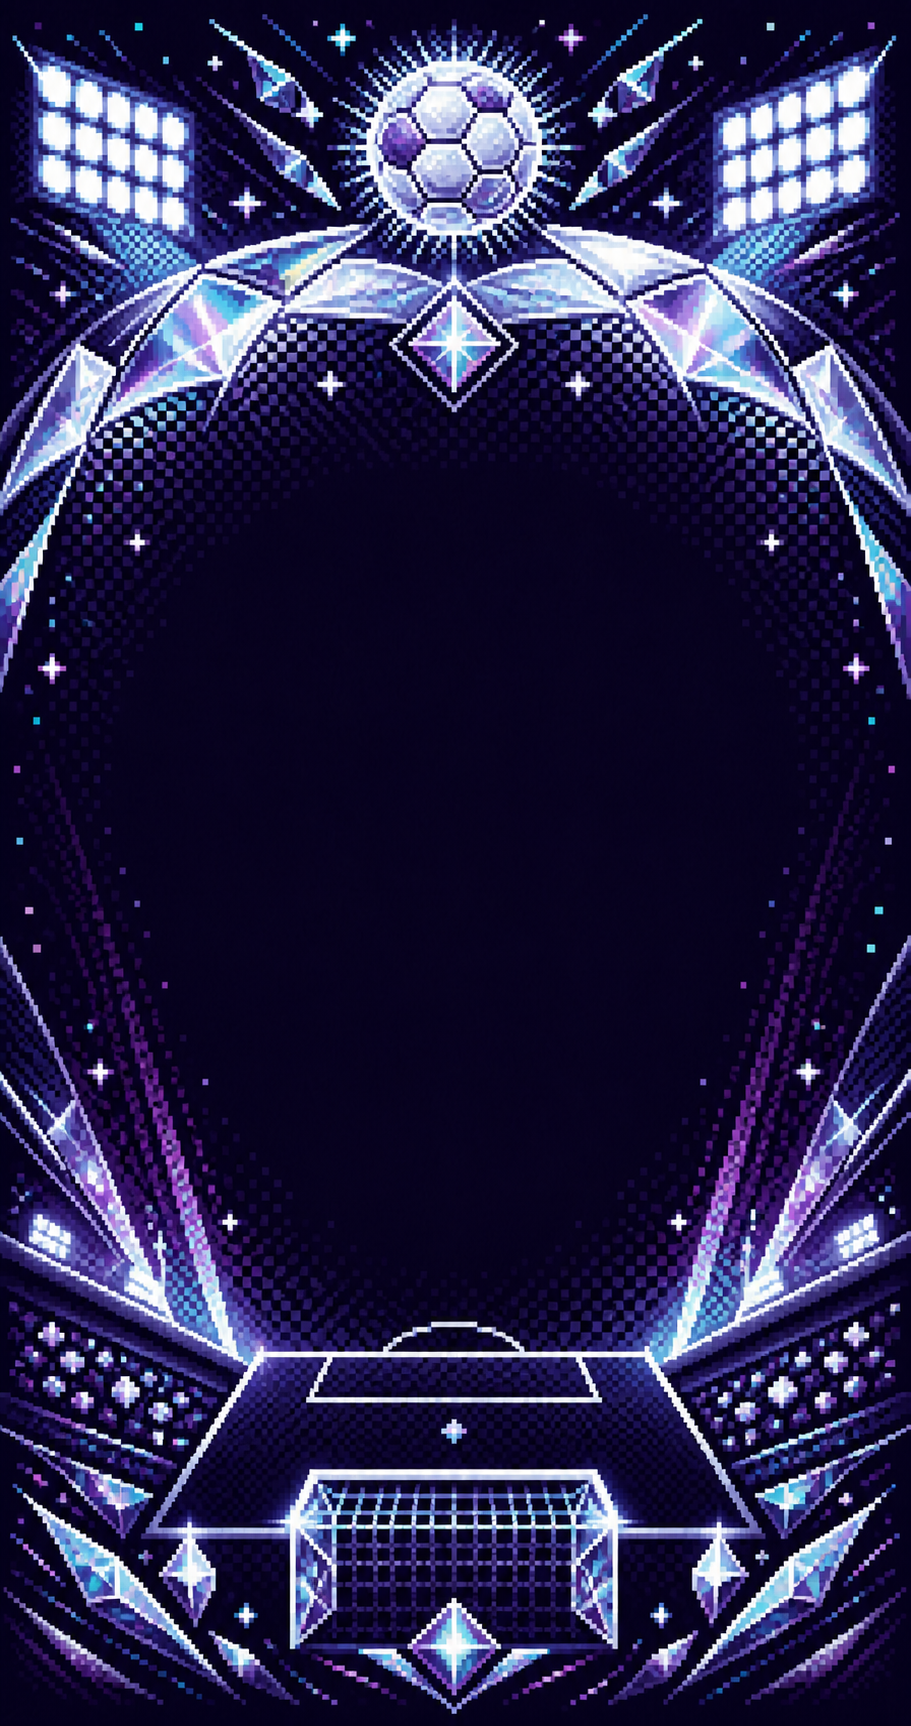
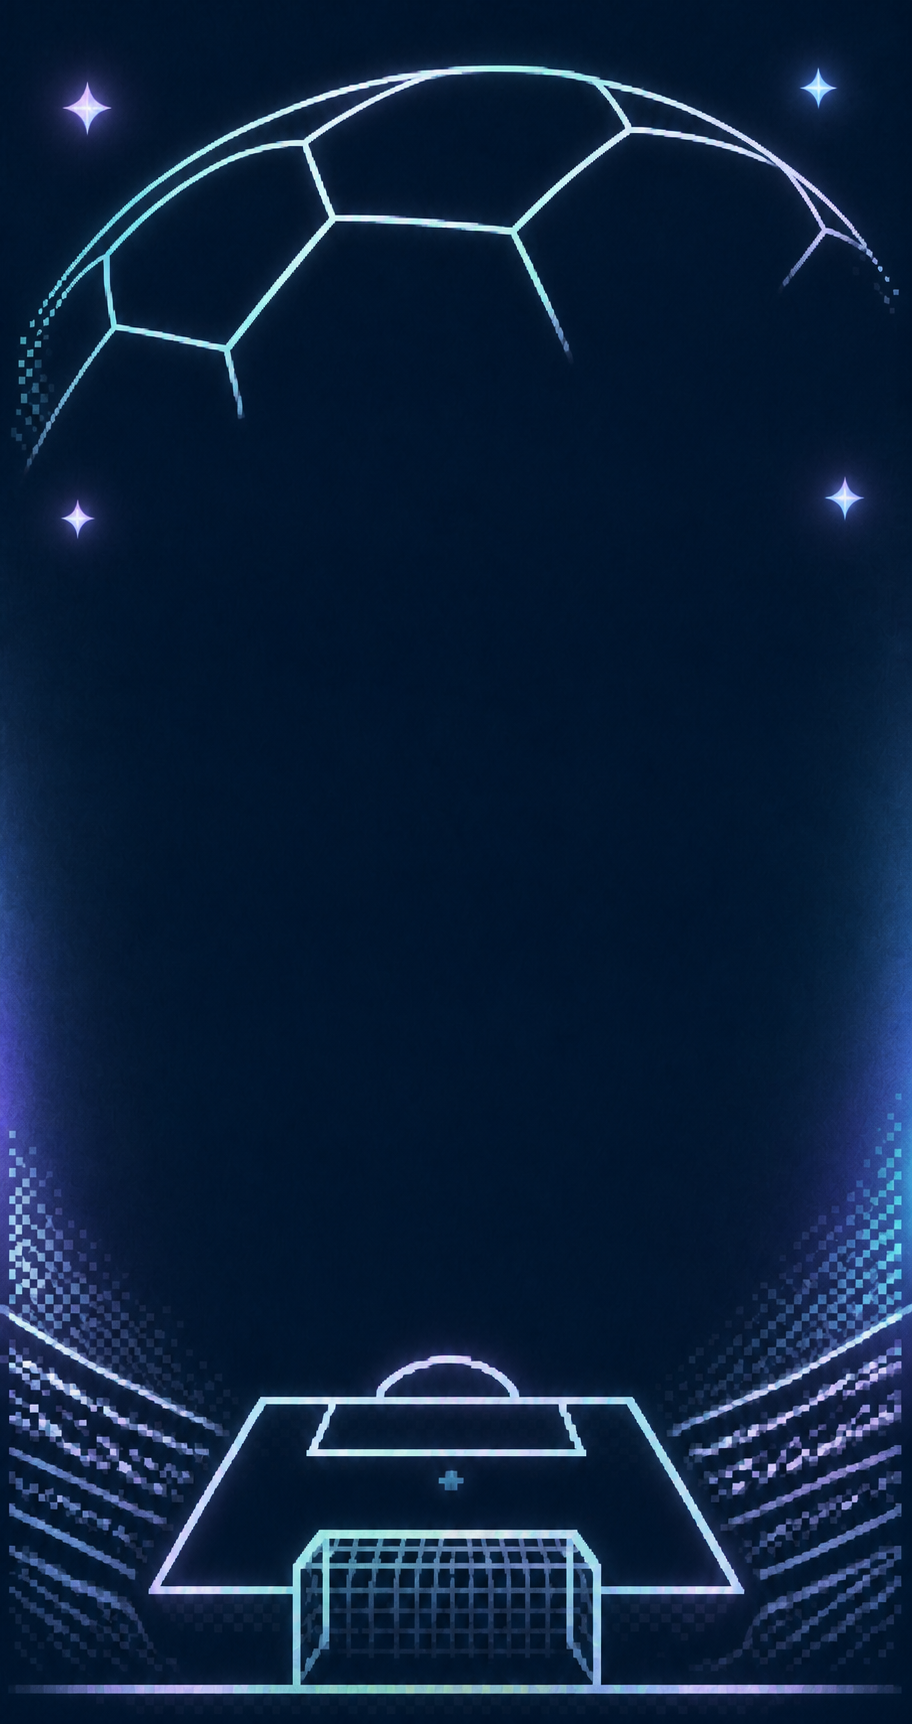
카드팩 배경을 그려 넣은 그림으로 바꾼다
CSS 그라디언트 대신 종목×등급 여섯 장을 깐다. 등급 인자가 있을 때만(혼자서 모드 상점·개봉)
갈아끼우므로 여럿이서 모드는 그대로다. 시안으로 쌓아둔 v2~v6 은 걷어낸다.

그림을 깔면 종목 무늬(야구공 실밥·축구공)를 안 그린다. 그림 안에 이미 실밥과 구장이 있어
겹치면 지저분하다. 워드마크 밴드는 반투명으로 낮춘다. 꽉 찬 색으로 두면 그림 한가운데를
검은 판때기가 덮는데, 여섯 장 다 그 자리를 비워두고 그린 것이라 살짝만 깔아도 읽힌다.
하단 표기는 27% 로 올린다. 기본값 11% 는 구장 그림 위에 얹혀 안 읽혔다.

Claude-Session: https://claude.ai/code/session_012HxLxyjL8pndLcscBY71AP

diff --git a/app/_game/pack.tsx b/app/_game/pack.tsx
@@ -1,6 +1,29 @@
 "use client";
 
+import Image from "next/image";
 import type { SportConfig } from "./deck";
+
+/**
+ * 등급이 주어지면 CSS 그라디언트 대신 그려 넣은 배경 그림을 쓴다.
+ * `public/images/card-packs/<종목>-<등급>.png` 여섯 장. 912x1725 라 아래 aspect-[10/19] 와 맞는다.
+ *
+ * 그림을 깔 때는 종목 무늬(야구공 실밥 / 축구공)를 안 그린다. 그림 안에 이미 실밥과
+ * 구장이 들어 있어서 겹치면 지저분해진다.
+ *
+ * 여섯 장 모두 가운데와 아래가 짙은 남색이라, 워드마크 밴드와 하단 표기는 밝은 글자로
+ * 고정한다. 등급별로 색을 나누던 GRADE_THEME 의 글자색은 그림 위에서 안 맞아 안 쓴다.
+ *
+ * 밴드를 반투명으로 둔 이유: 꽉 찬 색으로 두면 그림 한가운데를 검은 판때기가 덮는다.
+ * 여섯 장 다 가운데가 비어 있게 그려져서(워드마크 자리로 그린 것이다) 살짝만 깔아도
+ * 글자가 읽힌다.
+ */
+const ART_TEXT = { band: "bg-black/45", sub: "text-white/75", foot: "text-white/90" };
+
+/**
+ * 그림을 깔 때 하단 표기가 앉는 높이. 그림 여섯 장 모두 아래 4분의 1쯤에 구장(다이아몬드,
+ * 관중석)이 그려져 있어서, 기본값 11% 로 두면 글자가 그 위에 얹혀 안 읽힌다.
+ */
+const ART_FOOT_BOTTOM = "bottom-[27%]";
 
 // 카드팩 색. 종목 색을 따라간다(KBO 노랑 계열, PL 보라 계열). 무늬는 PackShell이 종목별로 가른다.
 // grade가 없거나 "normal"이면 이 표를 그대로 쓴다 — 여럿이서 모드가 등급 개념이 없으니 항상 이 갈래다.
@@ -116,13 +139,26 @@ export function PackShell({
   note?: string;
 }) {
   const clipPath = clip === "left" ? CLIP_LEFT : clip === "right" ? CLIP_RIGHT : CLIP_WHOLE;
-  const t = grade === "good" || grade === "platinum" ? GRADE_THEME[grade] : PACK_THEME[sport.key];
+  const css = grade === "good" || grade === "platinum" ? GRADE_THEME[grade] : PACK_THEME[sport.key];
+  const t = grade ? { ...css, ...ART_TEXT } : css;
   return (
     <div
-      className={`absolute inset-0 overflow-hidden ${t.base} ${dim ? "brightness-[.45]" : ""} ${animateClass ?? ""}`}
+      className={`absolute inset-0 overflow-hidden ${grade ? "bg-[#0b1020]" : css.base} ${dim ? "brightness-[.45]" : ""} ${animateClass ?? ""}`}
       style={{ clipPath }}
     >
-      {sport.key === "epl" ? (
+      {/* 그림이 뜨기 전에는 밑색(#0b1020)이 보인다. 그림 여섯 장이 다 짙은 남색 바탕이라
+          같은 색으로 맞춰두면 로딩 중에도 팩 모양이 안 깨진다. */}
+      {grade && (
+        <Image
+          src={`/images/card-packs/${sport.key}-${grade}.png`}
+          alt=""
+          fill
+          sizes="(max-width: 640px) 33vw, 140px"
+          className="object-cover"
+        />
+      )}
+
+      {grade ? null : sport.key === "epl" ? (
         /* 축구공: 가운데 오각형과 거기서 뻗은 다섯 개 선. 실제 축구공 무늬를 다 그리지 않아도
            이 조합이면 축구공으로 읽힌다. 팩보다 크게 잡아 무늬가 잘려 나가게 둔다. */
         <svg
@@ -158,7 +194,7 @@ export function PackShell({
 
       {/* 하단 표기 */}
       <div
-        className={`absolute inset-x-0 bottom-[11%] text-center text-[7px] leading-tight font-bold sm:text-[9px] ${t.foot}`}
+        className={`absolute inset-x-0 text-center text-[7px] leading-tight font-bold sm:text-[9px] ${grade ? ART_FOOT_BOTTOM : "bottom-[11%]"} ${t.foot}`}
       >
         선수 카드 {packSize}장
         <br />
